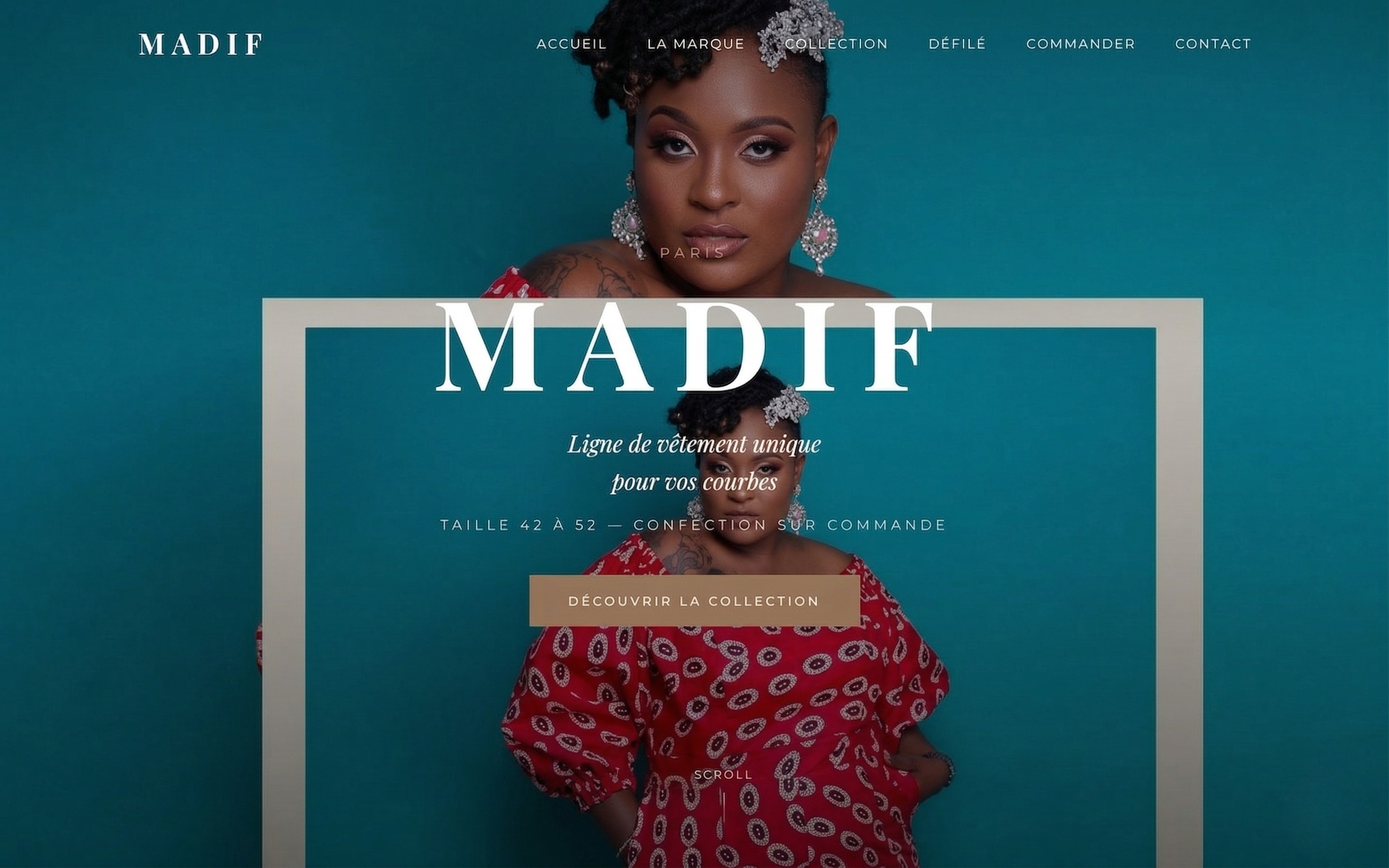
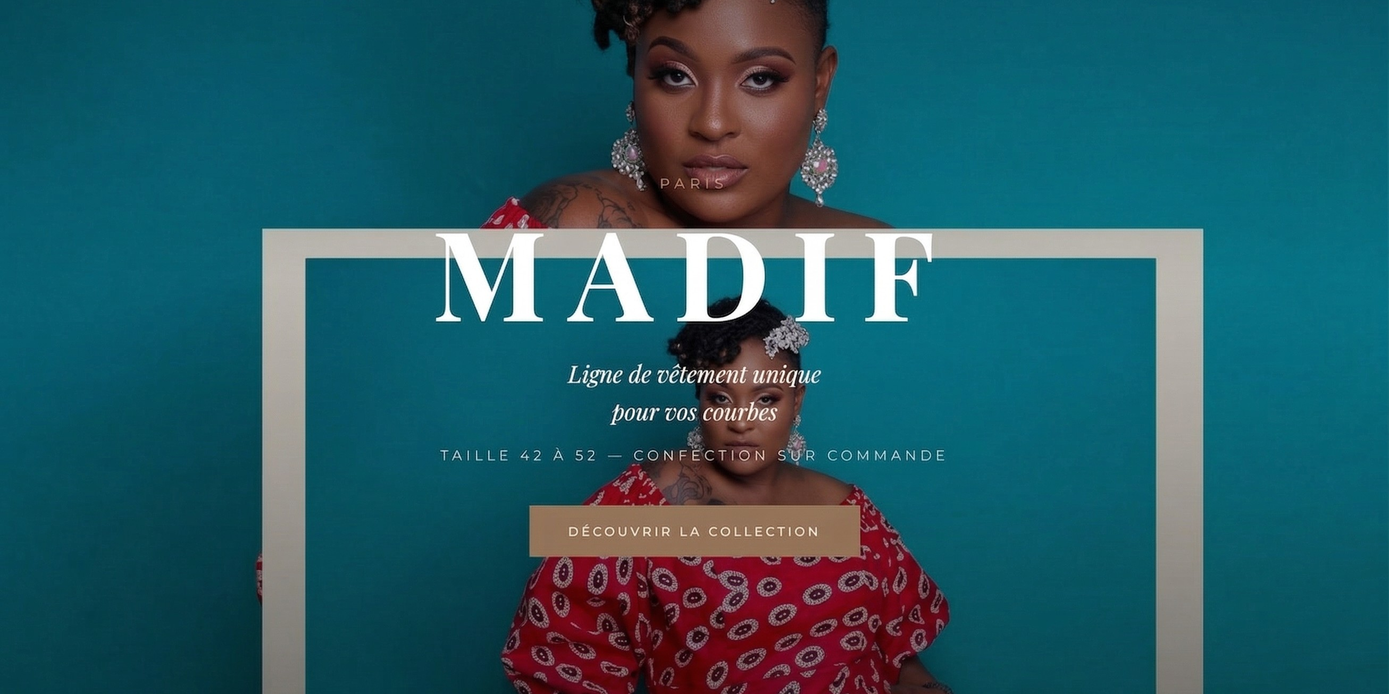
Corriger l'alignement du cadre hero et supprimer les doublons
- Rogner la nav et le scroll intégrés dans l'image hero
- Ajuster object-fit cover avec centrage
- Ajouter fond teal sur hero-bg

diff --git a/assets/css/style.css b/assets/css/style.css
@@ -226,14 +226,14 @@ ul { list-style: none; }
   position: absolute;
   top: 0; left: 0;
   width: 100%; height: 100%;
+  background-color: #1a7a7a;
 }
 
 .hero-img {
   width: 100%;
-  height: 130%;
+  height: 100%;
   object-fit: cover;
-  object-position: center 20%;
-  margin-top: -8%;
+  object-position: center center;
 }
 
 .hero-overlay {
